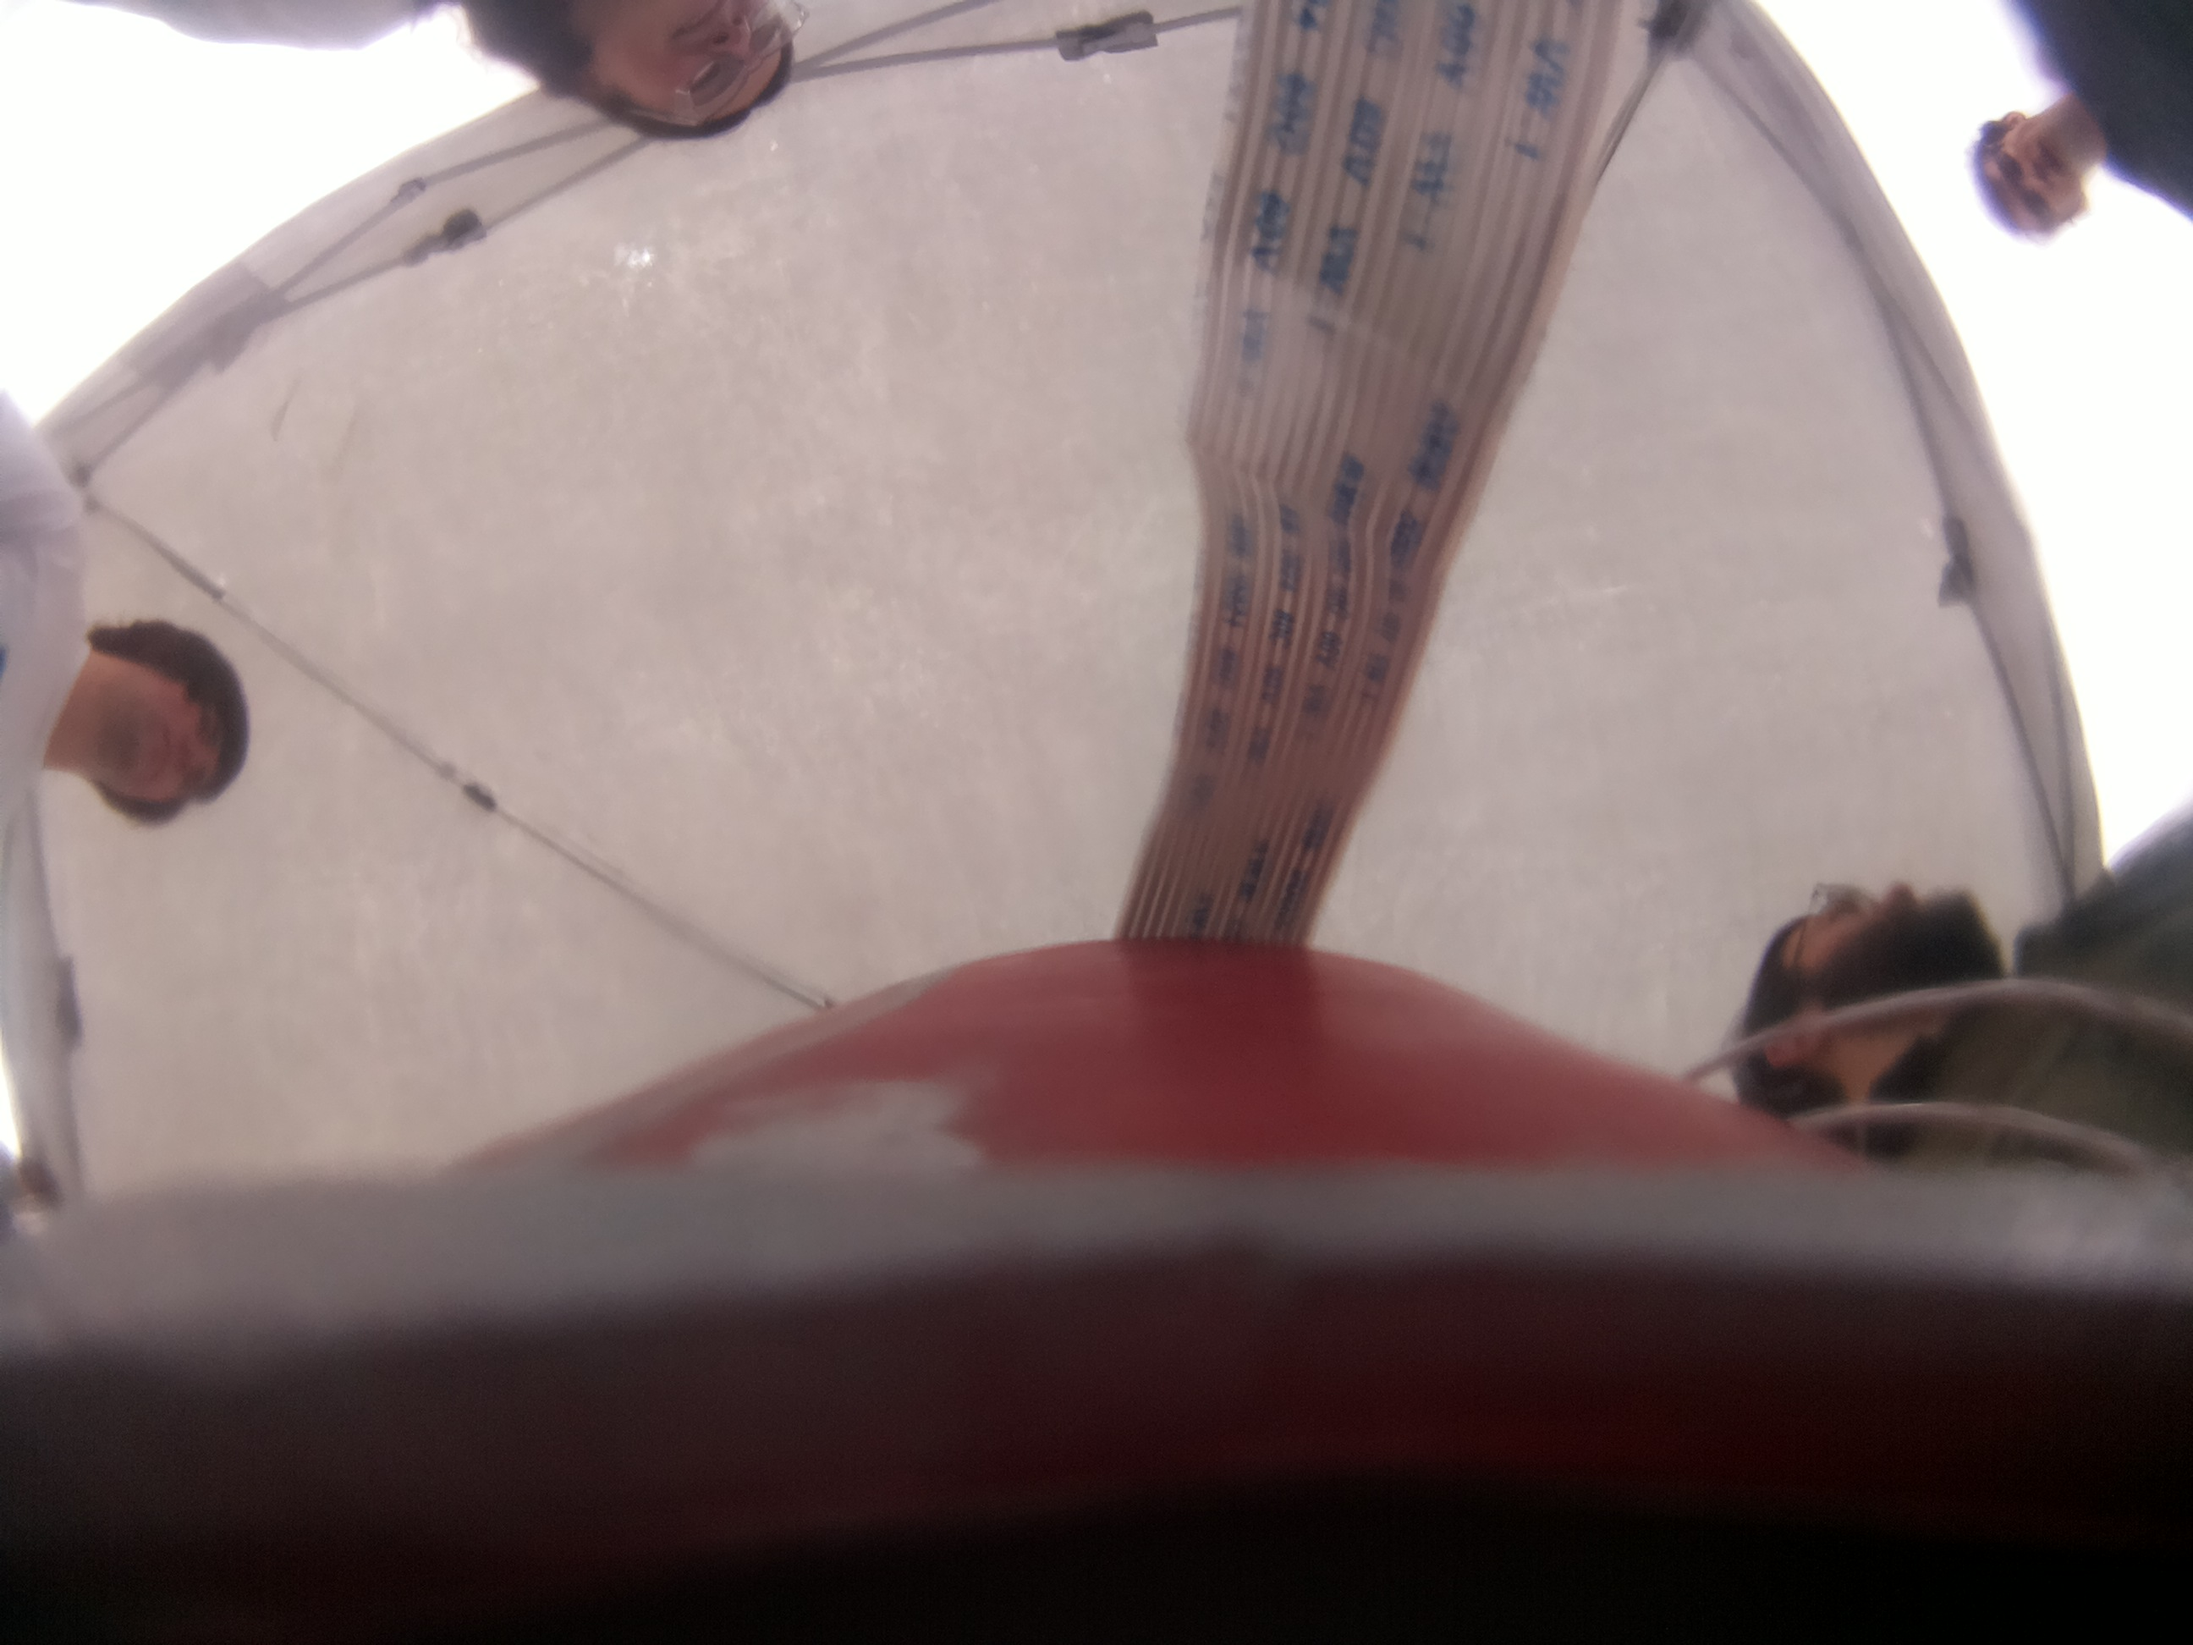
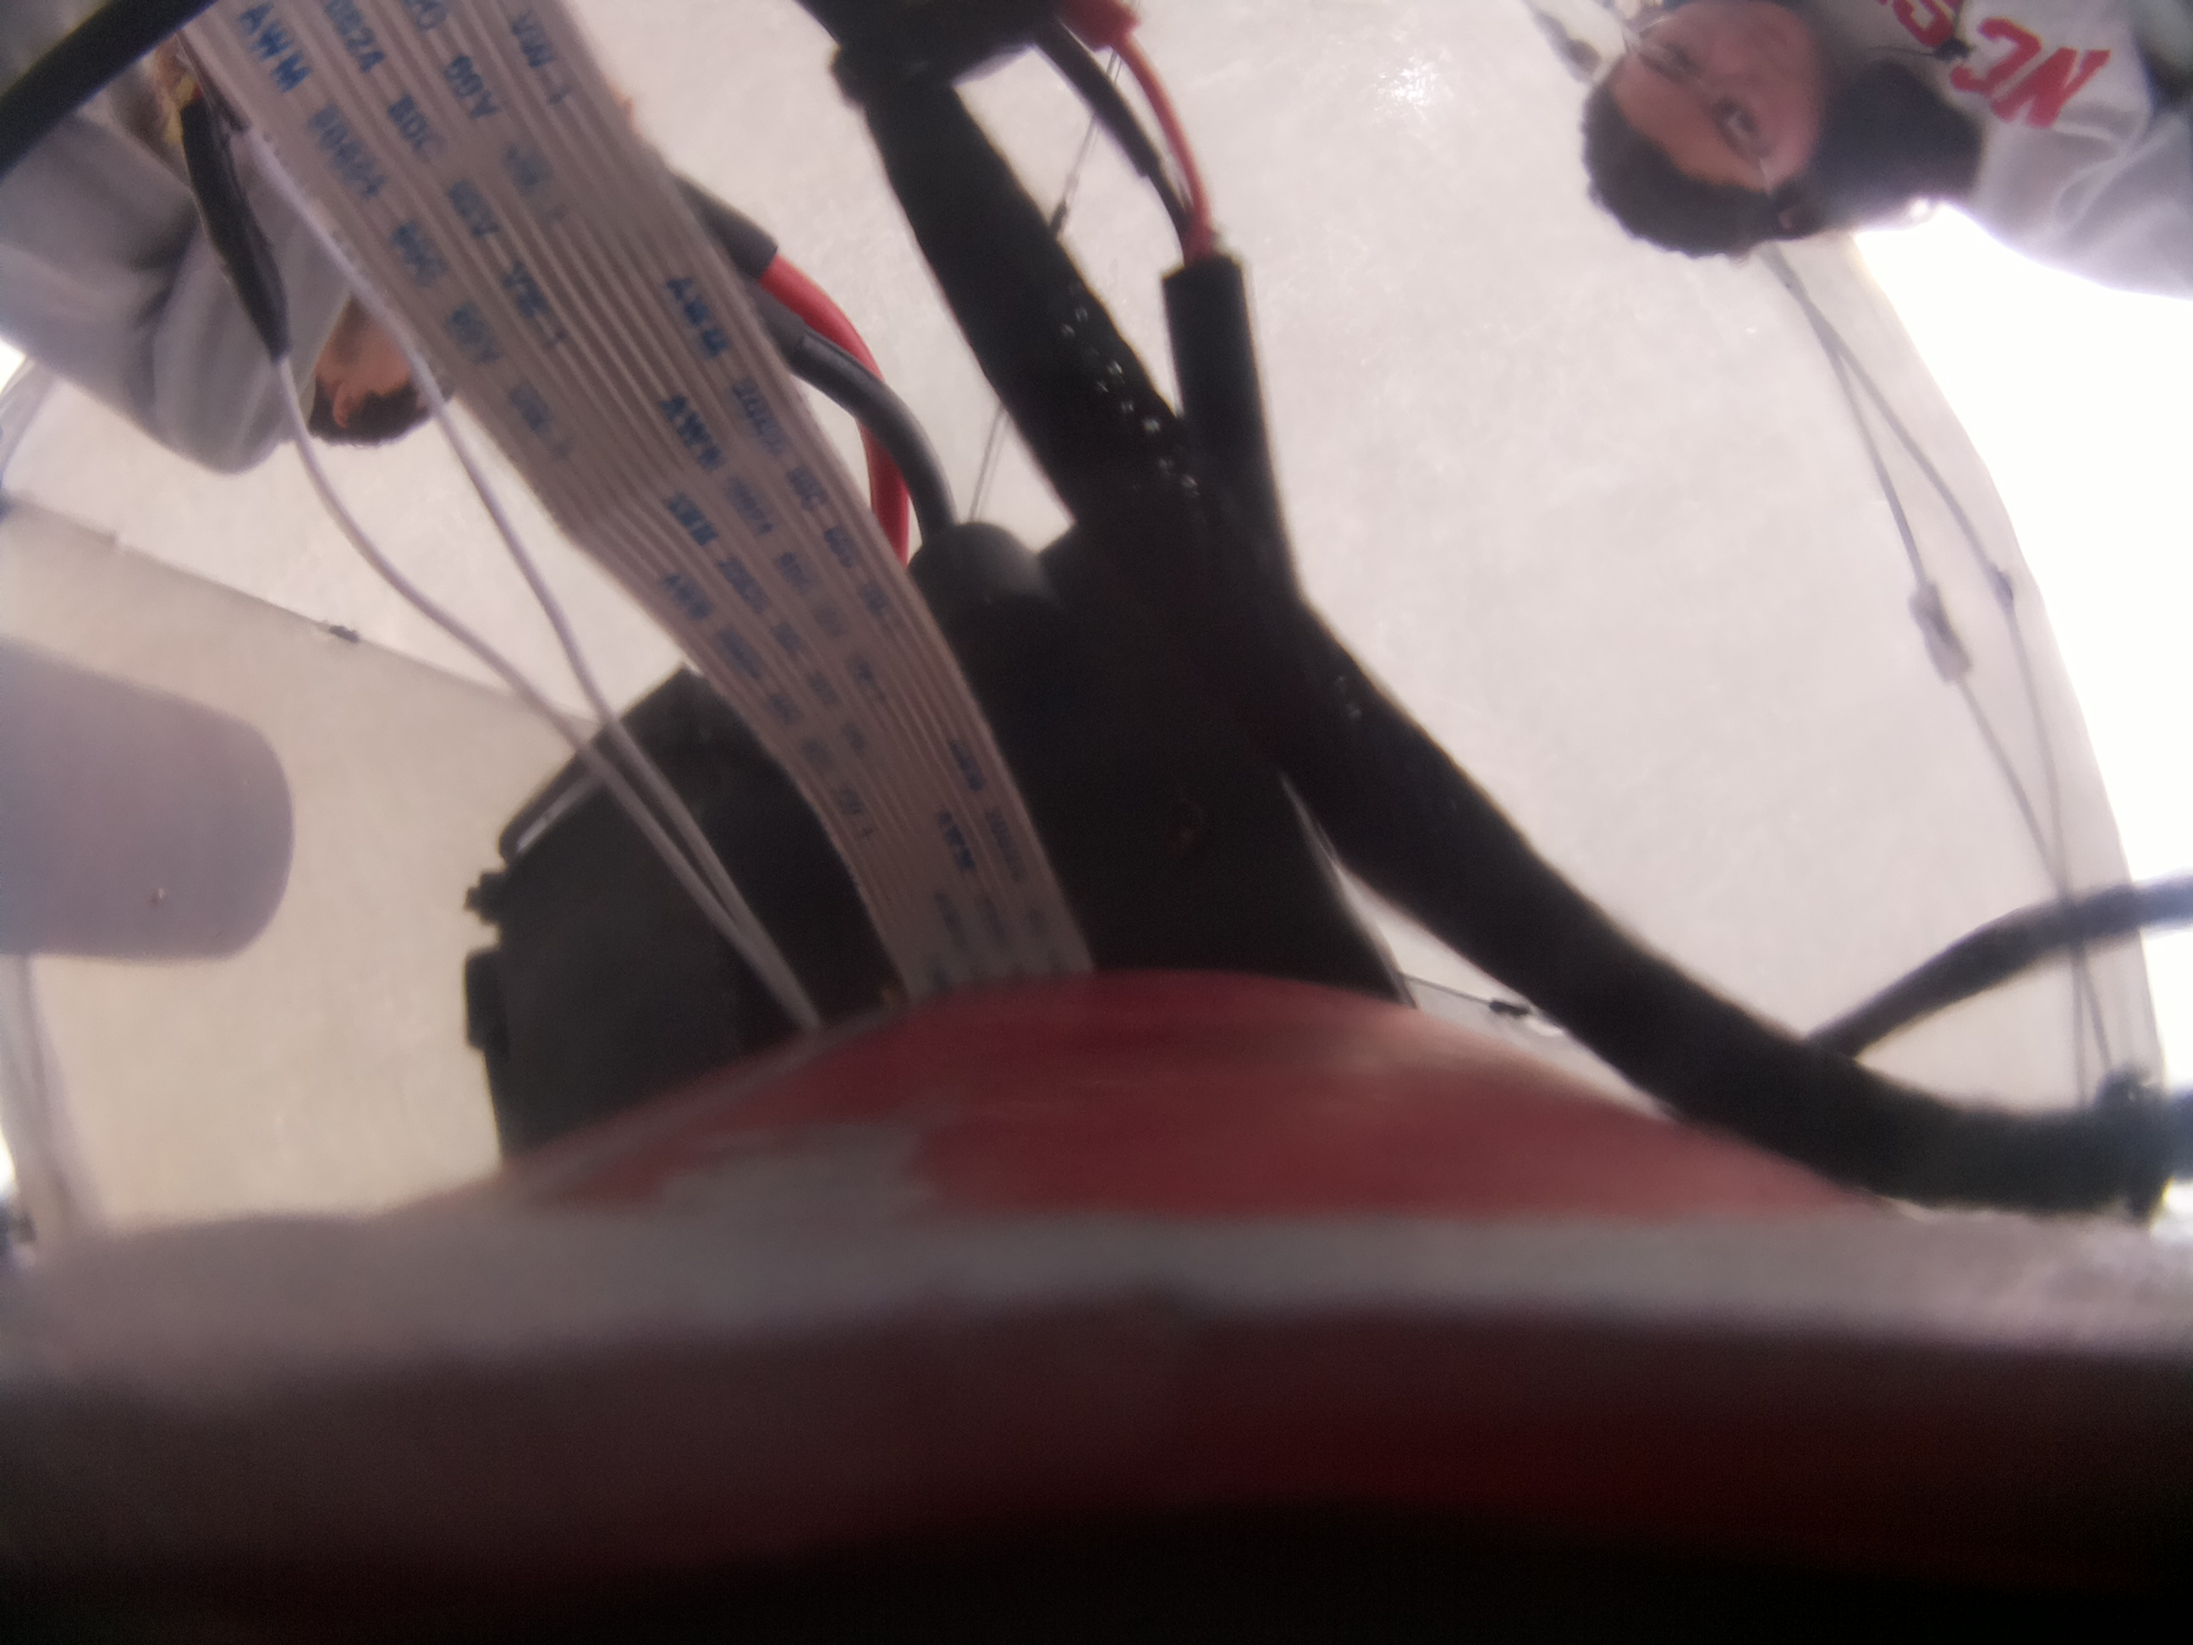
field changes

diff --git a/executeCmdsPDF.py b/executeCmdsPDF.py
@@ -22,7 +22,7 @@ async def executeCmdsPDF(APRS_clip):
     # GPIO.setup(pin,GPIO.OUT)
     # pwm = GPIO.PWM(pin, 50)
     # moveServo.moveServo(60, pwm)
-    APRS_clip = "C3 A1 D4 C3 F6 C3 G6 B2 B2 C3"
+   # APRS_clip = "C3 A1 D4 C3 F6 C3 G6 B2 B2 C3"
     cam = "pinky"
     while x < len(APRS_clip):
         if APRS_clip[x] == "A":
@@ -42,10 +42,11 @@ async def executeCmdsPDF(APRS_clip):
                 pic2gray.save("capture_%s_%d.jpg" % (cam, x))
             # If randnum~=0, then a random filter has been applied
             if randnum == 1: # deepfry
-                pic2filter = "capture_%s_%d.jpg" % (cam, x)
-                pic2filter = Image.open(r'/home/pi/Payload-2022-2023/%s' % pic2filter)
-                pic2filter = imageFilter.fry(pic2filter)
-                pic2filter.save("capture_%s_%d.jpg" % (cam, x))
+               # pic2filter = "capture_%s_%d.jpg" % (cam, x)
+               # pic2filter = Image.open(r'/home/pi/Payload-2022-2023/%s' % pic2filter)
+               # pic2filter = imageFilter.fry(pic2filter)
+               # pic2filter.save("capture_%s_%d.jpg" % (cam, x))
+               print('whoops cant fry lol')
             elif randnum == 2: # grassless
                 pic2filter = "capture_%s_%d.jpg" % (cam, x)
                 pic2filter = Image.open(r'/home/pi/Payload-2022-2023/%s' % pic2filter)

diff --git a/ServoLib.py b/ServoLib.py
@@ -6,7 +6,7 @@ class Servo:
     def __init__(self, servoPin, uSPerDeg):
         self.servoPin = servoPin
         GPIO.setwarnings(False)			#disable warnings
-        #GPIO.setmode(GPIO.BOARD)		#set pin numbering system
+        GPIO.setmode(GPIO.BCM)		#set pin numbering system
 
         print (f"Initialzing servo on pin {self.servoPin}")
 
@@ -42,7 +42,7 @@ class Servo:
         # self.currentAngle = deg
         
 class RocketServos(Enum):
-    BIG = Servo(19, 1000)
-    JAHN = Servo(21, 909090+10000)
-    RING = Servo(22, 1000)
-    PINKY = Servo(23, 1000)
+    BIG = Servo(10, 1000)
+    JAHN = Servo(9, 909090+10000)
+    RING = Servo(25, 1000)
+    PINKY = Servo(11, 1000)

diff --git a/imageFilter.py b/imageFilter.py
@@ -1,7 +1,7 @@
 from PIL import Image
 from PIL import ImageDraw
 from PIL import ImageFont
-import deeppyer, asyncio
+#import deeppyer, asyncio
 
 async def grassless(image, x):
     image_data = image.load()
@@ -19,9 +19,9 @@ async def meme(image,x):
     I1.text((0.2*width, 0.1*height),'BOTTOM TEXT', fill=(0,0,0), font=meme_font)
     return image
 
-async def fry(image,x):
-    image = await deeppyer.deepfry(image)
-    return image
+#async def fry(image,x):
+   # image = await deeppyer.deepfry(image)
+   # return image
     # #image.save('fried.jpg')
     # print("hi")
 

diff --git a/main.py b/main.py
@@ -37,8 +37,8 @@ DESCENT_TIME = 10
 AVERAGE_COUNT = 250
 
 # these are the GPIO pins we are controlling the relay switch with
-ANTENNA_1_PIN = 11
-ANTENNA_2_PIN = 13
+ANTENNA_1_PIN = 17
+ANTENNA_2_PIN = 27
 
 def main(args):
     if args.Frequency:
@@ -52,7 +52,7 @@ def main(args):
 
     # setup board
     GPIO.setwarnings(False)
-    GPIO.setmode(GPIO.BOARD)
+    GPIO.setmode(GPIO.BCM)
 
     # set output pins to output
     GPIO.setup(ANTENNA_1_PIN, GPIO.OUT)
